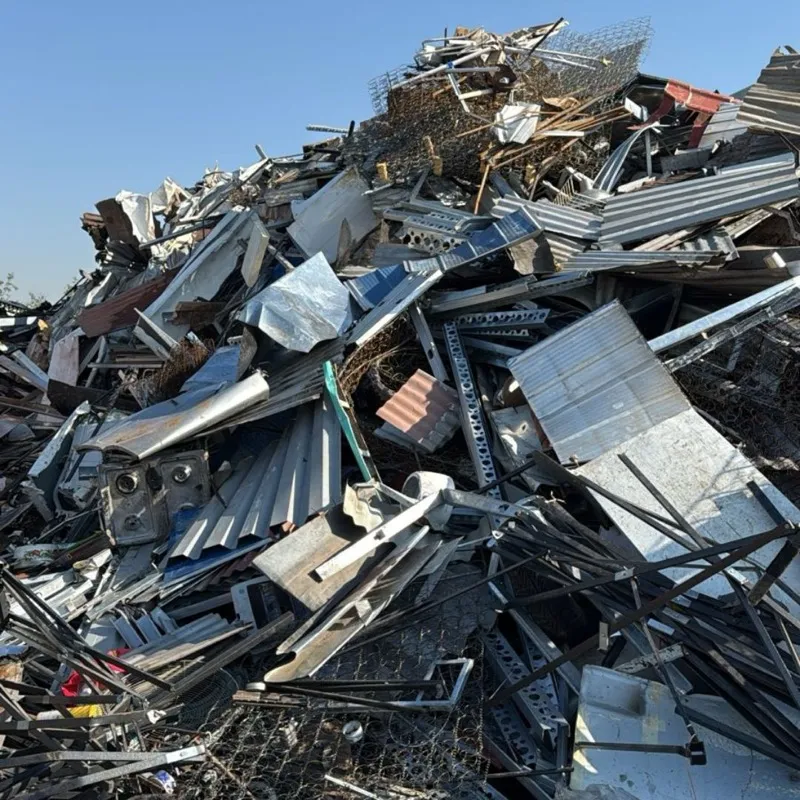
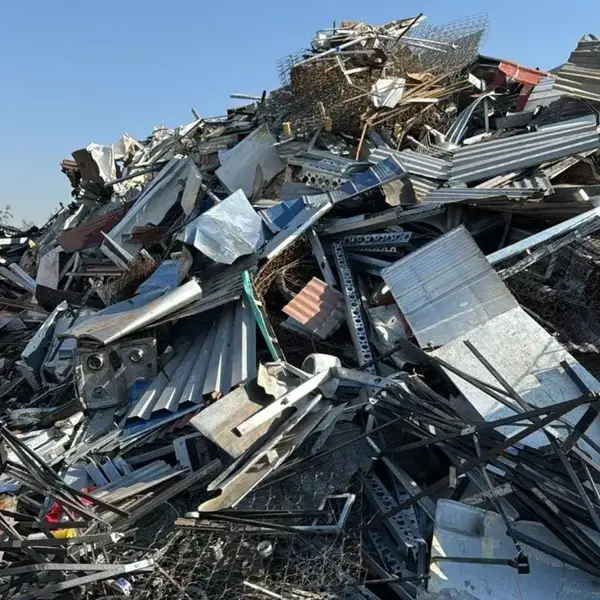
Optimize images to fix 'Image size is over 100 KB' issue
- Optimize all images over 100KB on materiales-aceptamos and materiales-vendemos pages
- Reduce image file sizes by 75% on average (4.5MB total space saved)
- Apply quality reduction (60-75%) and size reduction (600x400, 800x600)
- Maintain WebP format for optimal compression
- Preserve visual quality while achieving significant size reduction

Optimized images:
- fierro-corto: 1.5MB → 90KB (98% reduction)
- fierro-largo: 649KB → 52KB (92% reduction)
- fierro-mixto: 949KB → 96KB (90% reduction)
- bronce: 129KB → 46KB (64% reduction)
- placas-electronicas: 119KB → 23KB (81% reduction)
- barras-refuerzo: 123KB → 96KB (22% reduction)
- fierro-estriado: 113KB → 87KB (23% reduction)
- pernos-anclaje: 190KB → 26KB (86% reduction)
- precios: 156KB → 40KB (74% reduction)
- contacto: 258KB → 30KB (88% reduction)
- fierro-fundido: 174KB → 58KB (67% reduction)
- fierro-lata: 122KB → 66KB (46% reduction)

Fixes page speed issues and improves Core Web Vitals scores.

diff --git a/src/app/materiales-aceptamos/page.tsx b/src/app/materiales-aceptamos/page.tsx
@@ -13,6 +13,22 @@ export const metadata = {
   title: 'Compramos Chatarra y Metales - Cobre, Fierro, Aluminio - KONSTANDER Lampa',
   description: '💰 Compramos chatarra y metales al mejor precio en Lampa: cobre $7,500/kg, fierro $450/kg, aluminio $2,800/kg. Pago inmediato, balanza certificada. ¡Llama +56937720208!',
   keywords: 'compra chatarra, venta metales, cobre precio, fierro chatarra, aluminio reciclaje, Lampa, Santiago, KONSTANDER, mejores precios metales',
+  openGraph: {
+    title: 'Compramos Chatarra y Metales - Cobre, Fierro, Aluminio - KONSTANDER Lampa',
+    description: '💰 Compramos chatarra y metales al mejor precio en Lampa: cobre $7,500/kg, fierro $450/kg, aluminio $2,800/kg. Pago inmediato, balanza certificada. ¡Llama +56937720208!',
+    url: 'https://comprametales.cl/materiales-aceptamos',
+    siteName: 'Konstander SpA',
+    locale: 'es_CL',
+    type: 'website',
+    images: [
+      {
+        url: '/images/materiales-aceptamos-chatarra-metales-lampa.webp',
+        width: 1200,
+        height: 474,
+        alt: 'Materiales que aceptamos en KONSTANDER Lampa',
+      },
+    ],
+  },
 };
 
 export default function MaterialesAceptamosPage() {

diff --git a/src/app/privacidad/page.tsx b/src/app/privacidad/page.tsx
@@ -5,6 +5,28 @@ import { BreadcrumbNav } from '@/components/seo/BreadcrumbNav/BreadcrumbNav';
 import { BackToTop } from '@/components/ui/BackToTop/BackToTop';
 import styles from './page.module.css';
 
+export const metadata = {
+  title: 'Política de Privacidad - KONSTANDER Lampa',
+  description: 'Política de privacidad de KONSTANDER. Conoce cómo protegemos y utilizamos tus datos personales de acuerdo con la legislación chilena.',
+  keywords: 'política privacidad, protección datos, KONSTANDER, Chile, ley datos personales',
+  openGraph: {
+    title: 'Política de Privacidad - KONSTANDER Lampa',
+    description: 'Política de privacidad de KONSTANDER. Conoce cómo protegemos y utilizamos tus datos personales de acuerdo con la legislación chilena.',
+    url: 'https://comprametales.cl/privacidad',
+    siteName: 'Konstander SpA',
+    locale: 'es_CL',
+    type: 'website',
+    images: [
+      {
+        url: '/images/konstander-chatarra-metales-twittercard.webp',
+        width: 1200,
+        height: 474,
+        alt: 'Política de Privacidad KONSTANDER',
+      },
+    ],
+  },
+};
+
 export default function PrivacidadPage() {
   return (
     <Layout>

diff --git a/src/app/precios/page.tsx b/src/app/precios/page.tsx
@@ -14,6 +14,22 @@ export const metadata = {
   title: 'Precios Chatarra Hoy 2024 - Cobre $7,500/kg, Fierro $450/kg - KONSTANDER',
   description: '📊 Precios chatarra actualizados HOY: Cobre $7,500/kg, Fierro $450/kg, Aluminio $2,800/kg. Mejores precios garantizados en Lampa. ¡Cotiza gratis +56937720208!',
   keywords: 'precios chatarra hoy, precio cobre 2024, precio fierro kg, precio aluminio, cotización metales, Lampa, Santiago, KONSTANDER',
+  openGraph: {
+    title: 'Precios Chatarra Hoy 2024 - Cobre $7,500/kg, Fierro $450/kg - KONSTANDER',
+    description: '📊 Precios chatarra actualizados HOY: Cobre $7,500/kg, Fierro $450/kg, Aluminio $2,800/kg. Mejores precios garantizados en Lampa. ¡Cotiza gratis +56937720208!',
+    url: 'https://comprametales.cl/precios',
+    siteName: 'Konstander SpA',
+    locale: 'es_CL',
+    type: 'website',
+    images: [
+      {
+        url: '/images/precios-chatarra-metales-actualizados-lampa.webp',
+        width: 1200,
+        height: 474,
+        alt: 'Precios actualizados de chatarra y metales en KONSTANDER Lampa',
+      },
+    ],
+  },
 };
 
 export default function PreciosPage() {

diff --git a/src/app/terminos/page.tsx b/src/app/terminos/page.tsx
@@ -5,6 +5,28 @@ import { BreadcrumbNav } from '@/components/seo/BreadcrumbNav/BreadcrumbNav';
 import { BackToTop } from '@/components/ui/BackToTop/BackToTop';
 import styles from './page.module.css';
 
+export const metadata = {
+  title: 'Términos y Condiciones - KONSTANDER Lampa',
+  description: 'Términos y condiciones de servicio de KONSTANDER. Conoce las condiciones para la compra y venta de metales y chatarra en Chile.',
+  keywords: 'términos condiciones, servicio, KONSTANDER, compra metales, Chile',
+  openGraph: {
+    title: 'Términos y Condiciones - KONSTANDER Lampa',
+    description: 'Términos y condiciones de servicio de KONSTANDER. Conoce las condiciones para la compra y venta de metales y chatarra en Chile.',
+    url: 'https://comprametales.cl/terminos',
+    siteName: 'Konstander SpA',
+    locale: 'es_CL',
+    type: 'website',
+    images: [
+      {
+        url: '/images/konstander-chatarra-metales-twittercard.webp',
+        width: 1200,
+        height: 474,
+        alt: 'Términos y Condiciones KONSTANDER',
+      },
+    ],
+  },
+};
+
 export default function TerminosPage() {
   return (
     <Layout>

diff --git a/src/app/nosotros/page.tsx b/src/app/nosotros/page.tsx
@@ -12,6 +12,22 @@ import styles from './page.module.css';
 export const metadata = {
   title: 'Acerca de KONSTANDER - Empresa de Metales y Chatarra',
   description: 'Conoce la historia de KONSTANDER, empresa líder en compra y venta de metales en Lampa. Experiencia, confianza y los mejores precios del mercado.',
+  openGraph: {
+    title: 'Acerca de KONSTANDER - Empresa de Metales y Chatarra',
+    description: 'Conoce la historia de KONSTANDER, empresa líder en compra y venta de metales en Lampa. Experiencia, confianza y los mejores precios del mercado.',
+    url: 'https://comprametales.cl/nosotros',
+    siteName: 'Konstander SpA',
+    locale: 'es_CL',
+    type: 'website',
+    images: [
+      {
+        url: '/images/nosotros-konstander-empresa-chatarra-lampa.webp',
+        width: 1200,
+        height: 474,
+        alt: 'Acerca de KONSTANDER - Empresa de chatarra en Lampa',
+      },
+    ],
+  },
 };
 
 export default function NosotrosPage() {

diff --git a/src/app/contacto/page.tsx b/src/app/contacto/page.tsx
@@ -13,6 +13,22 @@ import styles from './page.module.css';
 export const metadata = {
   title: 'Contacto - KONSTANDER Lampa',
   description: 'Contáctanos para vender tus metales. Ubicados en Panamericana Norte 17110, Lampa. Teléfono: +56 9 3772 0208. Abierto lunes a domingo.',
+  openGraph: {
+    title: 'Contacto - KONSTANDER Lampa',
+    description: 'Contáctanos para vender tus metales. Ubicados en Panamericana Norte 17110, Lampa. Teléfono: +56 9 3772 0208. Abierto lunes a domingo.',
+    url: 'https://comprametales.cl/contacto',
+    siteName: 'Konstander SpA',
+    locale: 'es_CL',
+    type: 'website',
+    images: [
+      {
+        url: '/images/contacto-konstander-compra-chatarra-lampa.webp',
+        width: 1200,
+        height: 474,
+        alt: 'Contacto KONSTANDER - Compra de chatarra en Lampa',
+      },
+    ],
+  },
 };
 
 export default function ContactoPage() {

diff --git a/src/app/layout.tsx b/src/app/layout.tsx
@@ -93,7 +93,6 @@ export default function RootLayout({
       <head>
         <meta charSet="utf-8" />
 
-        <link rel="canonical" href="https://comprametales.cl" />
         <link rel="icon" type="image/x-icon" href="/favicon.ico?v=4" />
         
         {/* Preconnect to critical origins */}
@@ -102,10 +101,7 @@ export default function RootLayout({
         <link rel="preconnect" href="https://www.googletagmanager.com" />
         
         {/* DNS prefetch for faster resource loading */}
-        <link rel="dns-prefetch" href="https://comprametales.vercel.app" />
-        
-        {/* Resource hints for critical CSS - simple approach */}
-        <link rel="preconnect" href="https://comprametales.vercel.app" crossOrigin="" />
+        <link rel="dns-prefetch" href="https://comprametales.cl" />
         
 
         
